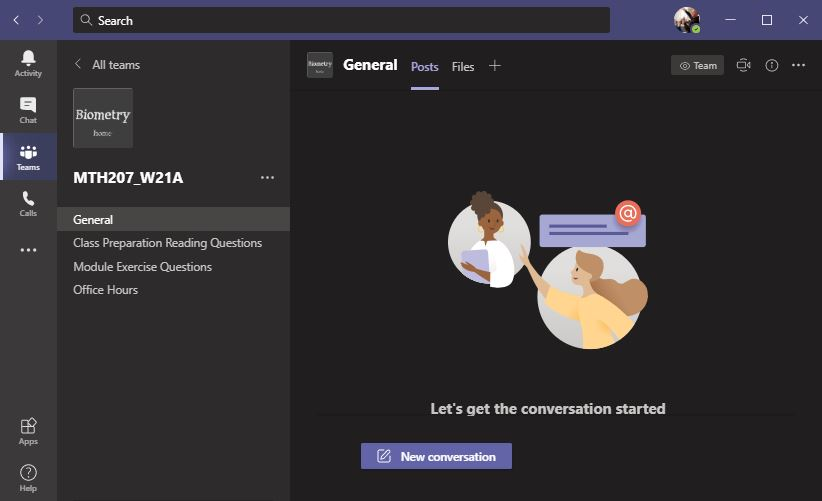
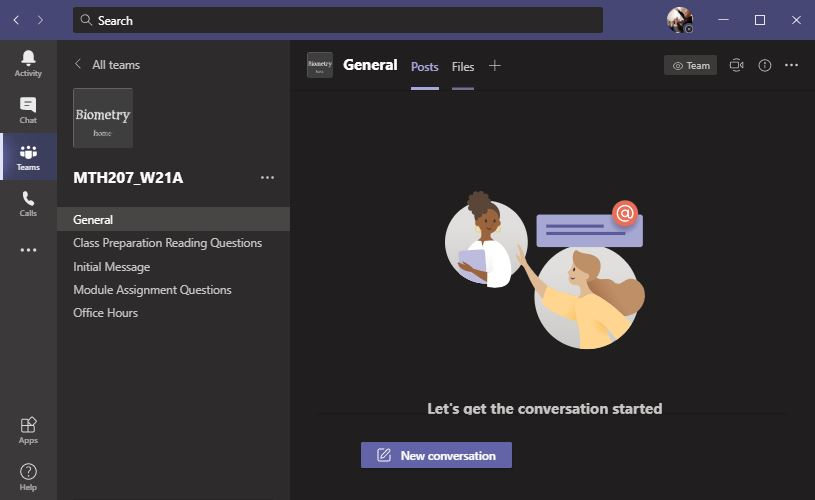
Some updates to the syllabus

diff --git a/index.html b/index.html
@@ -9,7 +9,7 @@ layout: page
 <div>
 <strong>Quick Links:</strong>
 <ul style="list-style-image:'img/arrow1.png';">
-  <li>MSTeams: <a href="https://teams.microsoft.com/l/channel/19%3aebdb6d98f8c748818228211aeea11139%40thread.tacv2/Class%2520Preparation%2520Reading%2520Questions?groupId=6aaae687-f6ed-4518-b9ed-3986bc9e6f4f&tenantId=b70d8bab-80b6-4766-b5da-fcfdabdf71c7" target="_blank">Prep Questions</a> / <a href="https://teams.microsoft.com/l/channel/19%3a1e6b964abdf147449dd0b108a7ee01b9%40thread.tacv2/Module%2520Exercise%2520Questions?groupId=6aaae687-f6ed-4518-b9ed-3986bc9e6f4f&tenantId=b70d8bab-80b6-4766-b5da-fcfdabdf71c7" target="_blank">Exercise Questions</a> / <a href="https://teams.microsoft.com/l/channel/19%3a3be6df4c9fde4473b4b06d536c09fe1a%40thread.tacv2/Office%2520Hours?groupId=6aaae687-f6ed-4518-b9ed-3986bc9e6f4f&tenantId=b70d8bab-80b6-4766-b5da-fcfdabdf71c7" target="_blank">Office Hours</a></li>
+  <li>MSTeams: <a href="https://teams.microsoft.com/l/channel/19%3aebdb6d98f8c748818228211aeea11139%40thread.tacv2/Class%2520Preparation%2520Reading%2520Questions?groupId=6aaae687-f6ed-4518-b9ed-3986bc9e6f4f&tenantId=b70d8bab-80b6-4766-b5da-fcfdabdf71c7" target="_blank">Prep Questions</a> / <a href="https://teams.microsoft.com/l/channel/19%3a1e6b964abdf147449dd0b108a7ee01b9%40thread.tacv2/Module%2520Assignment%2520Questions?groupId=6aaae687-f6ed-4518-b9ed-3986bc9e6f4f&tenantId=b70d8bab-80b6-4766-b5da-fcfdabdf71c7" target="_blank">Assignment Questions</a> / <a href="https://teams.microsoft.com/l/channel/19%3a3be6df4c9fde4473b4b06d536c09fe1a%40thread.tacv2/Office%2520Hours?groupId=6aaae687-f6ed-4518-b9ed-3986bc9e6f4f&tenantId=b70d8bab-80b6-4766-b5da-fcfdabdf71c7" target="_blank">Office Hours</a></li>
   <li><a href="https://www.gradescope.com/courses/211889" target="_blank">Gradescope (turn in prep questions and exercises)</a></li>
   <li><a href="https://mycourses.northland.edu/ICS/Academics/MTH/MTH__207/2020_20-MTH__207-01/Gradebook.jnz" target="_blank">Check your Grade on mycourses.northland.edu (updated Sundays)</a></li>
 </ul>

diff --git a/resources/Syllabus-Current.md b/resources/Syllabus-Current.md
@@ -33,10 +33,11 @@ What you learn in <strong>Biometry</strong> will help with these questions.
 
 * Class [Description](http://catalog.northland.edu/preview_course_nopop.php?catoid=19&coid=13539){:target="_blank"} and [Learning Outcomes](#learning-outcomes)
 * [Assistance](#assistance) -- [Instructor](#instructor--derek-ogle), [Accommodations](#accommodations), and [Academic Alerts](#academic-alerts)
-
-
-* Grading -- [Quizzes](#quizzes), [Exercises](#exercises), [Portfolio](#portfolio), [Overall Grade](#overall-grade)
-* Expectations -- [Ownership of Learning](#ownership-of-learning), [Work Outside of Class](#work-outside-of-class), [Classroom Conduct and Academic Integrity](#classroom-conduct-and-academic-integrity)
+* [Course Workflow](#course-workflow)
+* [Grading](#grading) -- [Incompletes](#incomplete-grades) and [Midterms](#midterm-grades)
+* [Expectations](#expectations) -- [Ownership of Learning](#ownership-of-learning), [Work Outside of Class](#work-outside-of-class), [Classroom Conduct and Academic Integrity](#classroom-conduct-and-academic-integrity)
+* [Title IX Statement](#title-ix-statement)
+* [COVID-19 Statement](#covid-19-statement)
 
 ----
 
@@ -63,15 +64,15 @@ I will answer to "Derek", "Doctor Ogle", "Professor Ogle", or "Doctor Professor 
 
 I am committed to your doing well in this course and see it as my responsibility to help you both in and out of the designated class period. You will soon see that this course is designed in such a way that your learning of the material will depend on your asking questions of me. There are several good ways to do this.
 
-- Attend class. Most of class time will be allocated to you working on modular exercises. I will be available during these times to answer your questions.
-- Ask questions on the course MS Teams site. There are separate channels for questions regarding [module preparation readings](https://teams.microsoft.com/l/channel/19%3aebdb6d98f8c748818228211aeea11139%40thread.tacv2/Class%2520Preparation%2520Reading%2520Questions?groupId=6aaae687-f6ed-4518-b9ed-3986bc9e6f4f&tenantId=b70d8bab-80b6-4766-b5da-fcfdabdf71c7){:target="_blank"}, [module exercises](https://teams.microsoft.com/l/channel/19%3a1e6b964abdf147449dd0b108a7ee01b9%40thread.tacv2/Module%2520Exercise%2520Questions?groupId=6aaae687-f6ed-4518-b9ed-3986bc9e6f4f&tenantId=b70d8bab-80b6-4766-b5da-fcfdabdf71c7){:target="_blank"}, and [general questions](https://teams.microsoft.com/l/channel/19%3aea18d6dd26f24c7fba62ef9ab7cc6297%40thread.tacv2/General?groupId=6aaae687-f6ed-4518-b9ed-3986bc9e6f4f&tenantId=b70d8bab-80b6-4766-b5da-fcfdabdf71c7){:target="_blank"}. Simply start a new conversation with your question and I will answer it ASAP. Other students may also answer your question.
+- Attend class. Most of class time will be allocated to you working on modular assignments. I will be available during these times to answer your questions.
+- Ask questions on the course MS Teams site. There are separate channels for questions regarding module preparation readings, module assignments, and general questions (see [quick links on course homepage](../)). Simply start a new conversation with your question and I will answer it ASAP. Other students may also answer your question.
 - I will old virtual office hours on Teams Monday through Thursday from 830-930 **pm**. You can simply join the meeting that I open in the [Office Hours channel](https://teams.microsoft.com/l/channel/19%3a3be6df4c9fde4473b4b06d536c09fe1a%40thread.tacv2/Office%2520Hours?groupId=6aaae687-f6ed-4518-b9ed-3986bc9e6f4f&tenantId=b70d8bab-80b6-4766-b5da-fcfdabdf71c7){:target="_blank"} at that time.
 - I will also generally be available at my computer during early and late mornings on class days. I will try to respond to queries ASAP during these times.
 - Finally, you may send me [anonymous feedback, suggestions, or questions](https://www.surveymonkey.com/r/F7S7GNJ){:target="_blank"}.
 
 Please see or contact me if you have questions regarding this course. 
 
-I want to create an inclusive and accessible learning environment for those of you that have a condition (e.g., attention, learning, vision, hearing, mental, physical, or other health-related concern) that may require special accommodations. *If you have already established accommodations* with the Office of Accessibility Resources (OAR), please communicate your approved accommodations to me as soon as possible so that we can discuss your needs in this course. If you have a condition that requires accommodations but *you have not yet established services* through OAR, then you should contact Jennifer Newago as soon as possible (Ponzio 230, x1387, or <a href="mailto:accommodations@northland.edu">accommodations@northland.edu</a>). It is the policy and practice of Northland College to create inclusive and accessible learning environments consistent with federal and state law. <a href="https://my.northland.edu/life/be-healthy/accommodations/">More information is available here.</a>
+I want to create an inclusive and accessible learning environment for those of you that have a condition (e.g., attention, learning, vision, hearing, mental, physical, or other health-related concern) that may require special accommodations. *If you have already established accommodations* with the Office of Accessibility Resources (OAR), please communicate your approved accommodations to me as soon as possible so that we can discuss your needs in this course. If you have a condition that requires accommodations but *you have not yet established services* through OAR, then you should contact Jennifer Newago as soon as possible (Ponzio 230, x1387, or <a href="mailto:accommodations@northland.edu">accommodations@northland.edu</a>). It is the policy and practice of Northland College to create inclusive and accessible learning environments consistent with federal and state law. <a href="https://my.northland.edu/life/be-healthy/accommodations/" target="_blank">More information is available here.</a>
 
 
 ### Academic Alerts
@@ -87,9 +88,7 @@ This course is taught in a "flipped format", which loosely means that you will b
 
 The course is composed of [29 modules](../modules/index) of material which roughly corresponds to one module per day. Below describes a general format of instruction that you should follow for each module.
 
-1. **Prepare Module Material** -- Each module has a reading that describes the major concepts of the module. These readings are detailed and derived from my lecture notes from years past. I have worked very hard to make these readings short and readable, but the fact of the matter is that some concepts in this course require more explanation and some of that explanation is subtle. As appropriate I have added visuals to explain concepts and highlighted key definitions and concepts in boxes. **You need to engage thoroughly with these readings**. By this, I mean that you should need to be focused (i.e,. not distracted) while reading these and you need to think about concepts that don't make sense to you on your first read. **A cursory run through the readings will not be adequate.**
-
-To guide your reading, I have created "reading questions" for each module. These questions are below the "Preparation for Class" heading on each module webpage (see ["Model Types"](../modules/ModelTypes){:target="_blank"} as an example). As you read the reading you should answer each "reading question." I prefer that your answers are (neatly) hand-written as [there is some evidence](https://www.npr.org/2016/04/17/474525392/attention-students-put-your-laptops-away){:target="_blank"} that **concepts are better retained when you write, rather than type, them**. Questions you have about the reading or the reading questions can be asked on the ["Class Preparation Reading Questions" channel](https://teams.microsoft.com/l/channel/19%3aebdb6d98f8c748818228211aeea11139%40thread.tacv2/Class%2520Preparation%2520Reading%2520Questions?groupId=6aaae687-f6ed-4518-b9ed-3986bc9e6f4f&tenantId=b70d8bab-80b6-4766-b5da-fcfdabdf71c7){:target="_blank"} on the course Teams page.
+1. **Prepare Module Material** -- Each module has a reading that describes the major concepts of the module. These readings are detailed and derived from my lecture notes from years past. I have worked very hard to make these readings short and readable, but the fact of the matter is that some concepts in this course require more explanation and some of that explanation is subtle. As appropriate I have added visuals to explain concepts and highlighted key definitions and concepts in boxes. **You need to engage thoroughly with these readings**. By this, I mean that you should need to be focused (i.e,. not distracted) while reading these and you need to think about concepts that don't make sense to you on your first read. **A cursory run through the readings will not be adequate.**<br><br>To guide your reading, I have created "reading questions" for each module. These questions are below the "Preparation for Class" heading on each module webpage (see ["Model Types"](../modules/ModelTypes){:target="_blank"} as an example). As you read the reading you should answer each "reading question." I prefer that your answers are (neatly) hand-written as [there is some evidence](https://www.npr.org/2016/04/17/474525392/attention-students-put-your-laptops-away){:target="_blank"} that **concepts are better retained when you write, rather than type, them**. Questions you have about the reading or the reading questions can be asked on the ["Class Preparation Reading Questions" channel](https://teams.microsoft.com/l/channel/19%3aebdb6d98f8c748818228211aeea11139%40thread.tacv2/Class%2520Preparation%2520Reading%2520Questions?groupId=6aaae687-f6ed-4518-b9ed-3986bc9e6f4f&tenantId=b70d8bab-80b6-4766-b5da-fcfdabdf71c7){:target="_blank"} on the course Teams page.<br></br>
 
 Your answers to the reading questions should be turned into me, via GradeScope ([quick link on class homepage](../){:target="_blank"}), by 1100 am on the day that the module will be covered in class (see the [Dates page](Dates-Current.html)). I will grade your answers according to the following rubric.
 
@@ -104,10 +103,9 @@ Your answers to the reading questions should be turned into me, via GradeScope (
   </table>
 </div>
 
-1. **Class Time** -- The initial part of class time will consist of a short introduction to the module exercises and a quick discussion of any questions that you all had from the preparation reading. Following this you will work on the module's application exercises. I expect you to attend class to get direct help from me and to work on course material during the portion of the 1230-400 period when you are not "attending" class. If you are diligent and focused, you will likely finish most of the module exercises during this time.
-1. **Complete an Applied Assignment** -- Module assignments are listed under the "Practice" section on the module webpage (see ["Model Types"](../modules/ModelTypes){:target="_blank"} as an example). Assignments should be prepared as described here for handing in on GradeScope ([quick link on class homepage](../){:target="_blank"}). The assignment on Gradescope will have the module name and "-- assignment" suffix and is due by 1200 (noon) on the day after the class period dedicated to the module.
-
-I will "grade for content" (i.e., whether the work is done correctly or not) 50-100% of each module exercise assignment. Questions that I did not "grade for content" will be "graded for completeness" (i.e., whether the work was done completely or not). You will receive a short e-mail from me when your graded assignment is available on GradeScope. You are expected to review your grade and comments ([how-to video here](https://youtu.be/TOHCkI12mh0){:target="_blank"}) to better learn the material and to improve on future assignments. Detailed answer keys will also be available on the module webpage.
+{:start="2"}
+1. **Class Time** -- The initial part of class time will consist of a short introduction to the module assignment and a quick discussion of any questions that you all had from the preparation reading. Following this you will work on the module's application assignment. I expect you to attend class to get direct help from me and to work on course material during the portion of the 1230-400 period when you are not "attending" class. If you are diligent and focused, you will likely finish most of the module assignment during this time.
+1. **Complete an Applied Assignment** -- Module assignments are listed under the "Practice" section on the module webpage (see ["Model Types"](../modules/ModelTypes){:target="_blank"} as an example). Assignments should be prepared as described here for handing in on GradeScope ([quick link on class homepage](../){:target="_blank"}). The assignment on Gradescope will have the module name and "-- assignment" suffix and is due by 1200 (noon) on the day after the class period dedicated to the module.<br><br>I will "grade for content" (i.e., whether the work is done correctly or not) 50-100% of each module assignment. Questions that I did not "grade for content" will be "graded for completeness" (i.e., whether the work was done completely or not). You will receive a short e-mail from me when your graded assignment is available on GradeScope. You are expected to review your grade and comments ([how-to video here](https://youtu.be/TOHCkI12mh0){:target="_blank"}) to better learn the material and to improve on future assignments. Detailed answer keys will also be available on the module webpage.
 
 <br>
 
@@ -115,22 +113,23 @@ I will "grade for content" (i.e., whether the work is done correctly or not) 50-
 <img src="../img/ClassStructure.JPG" width="70%" height="70%">
 </center>
 
+<br>
 ----
 
 ## Grading
 <img class="img-right" src="../img/grading.jpg">
-An overall grade will be computed from the module reading preparation answers and exercises described in the ["Course Workflow" section](#course-workflow) and a final exam. Module reading preparation answers and exercises not submitted by the due date time will not be accepted. However, your lowest four items of each will be dropped when computing your overall grade.
+An overall grade will be computed from the module reading preparation answers and assignments described in the ["Course Workflow" section](#course-workflow) and a final exam. Module reading preparation answers and assignments not submitted by the due date time will not be accepted. However, your lowest four items of each will be dropped when computing your overall grade.
 
 The final exam is an opportunity for you to show a synthetic understanding of all material from throughout the course. The final exam will focus on larger concepts, applications, and interpretations (rather than specific details) from throughout the semester. I will provide you with an explicit study guide approximately one week before the final exam.
 
-An overall score will be computed from the items and associated weights listed in the table below. Grades on individual module reading preparation answers and exercises can be found on the class Gradescope page ([quick link on class homepage](../){:target="_blank"}). I will update your percentage grades for the reading preparation answers and exercises on mycourses.northland.edu ([quick link on class homepage](../)) at the end of each week, which will then show your grade as of that time. You can also compute your overall grade at any time by entering your percentage scores in the boxes below for completed assessments. To project your future grade, also include percentages for future assessments.
+An overall score will be computed from the items and associated weights listed in the table below. Grades on individual module reading preparation answers and assignments can be found on the class Gradescope page ([quick link on class homepage](../){:target="_blank"}). I will update your percentage grades for the reading preparation answers and assignments on mycourses.northland.edu ([quick link on class homepage](../)) at the end of each week, which will then show your grade as of that time. You can also compute your overall grade at any time by entering your percentage scores in the boxes below for completed assessments. To project your future grade, also include percentages for future assessments.
 
 <!-- if the assessment weights change then you must change the values in get_wghts() in the grader.js file -->
 
 <form name="GRADECALC">
 <table class="grader" width="70%">
 <tr><th width="15%"></th>
-<th width="28%">Reading Prep<br>Quizzes</th>
+<th width="28%">Reading Prep</th>
 <th width="28%">Assignments</th>
 <th width="29%">Final Exam</th>
 </tr>
@@ -179,13 +178,12 @@ This course is designed in a way that you will have to actively, rather than pas
 * Prepare for some course content on your own prior to class.
 * Use class and the Piazza discussion site to ask questions and seek help.
 * Assess your own performance by reviewing your graded work an comparing your answers on assignments to the answer key (which will also contain hints related to common mistakes).
-* Assess if you need more practice and complete additional exercises provided for most modules.
 * Ask for help from me (the professor) both during and outside of class. See [Assistance](#assistance) section above.
 * Maintain focus for an extended period of time (1.5 h for each class).
 
 ### Work Outside of Class
 <img class="img-right" src="../img/studying.jpg" alt="Decoration">
-As a general rule-of-thumb[^studytime], you are expected to spend 2-3 hours of time outside of class for each hour in class. For this course, you will meet for 7.5 hours per week and, thus, you should dedicate between 15 and 22.5 hours of time outside of class time preparing for class, completing assignments, reviewing your work, and asking questions or for help. **The work required for this course can be completed within this expected amount of time, if that time is without distraction**. If monitoring your phone/device is distracting you from getting your work done then you may consider the aid of apps (e.g., [Forest](https://www.forestapp.cc/)) designed to reduce distractions from devices.[^DistractionAids]  
+As a general rule-of-thumb[^studytime], you are expected to spend 2-3 hours of time outside of class for each hour in class. For this course, you will meet for more than 8 hours per week and, thus, you should dedicate between 16 and 24 hours of time outside of class time preparing for class, completing assignments, reviewing your work, and asking questions or for help. **The work required for this course can be completed within this expected amount of time, if that time is without distraction**. If monitoring your phone/device is distracting you from getting your work done then you may consider the aid of apps (e.g., [Forest](https://www.forestapp.cc/){:target="_blank"}) designed to reduce distractions from devices.[^DistractionAids]  
 
 If you feel that you are spending too much time on some assignments or preparations because you are "stuck," then start your work earlier so that you can stop (and do other things) and make plans to seek help (see [assistance section above](#assistance)).
 

diff --git a/modules/resources/MSTeams_Intro.md b/modules/resources/MSTeams_Intro.md
@@ -49,7 +49,7 @@ The MTH207 Team currently has four main channels as seen in the screenshot above
 
 * **General**: For asking general questions (due dates, how to install R, etc.).
 * **Class Preparation Reading Questions**: For asking questions about the module preparation readings.
-* **Module Exercise Questions**: For asking questions about the module exercises.
+* **Module Assignment Questions**: For asking questions about the module exercises.
 * **Office Hours**: For attending "official" office hours (see syllabus) and for out of office hour discussions with Derek.
 
 In each channel you can start a new conversation (i.e., question) by pressing the "New Conversation" button.
